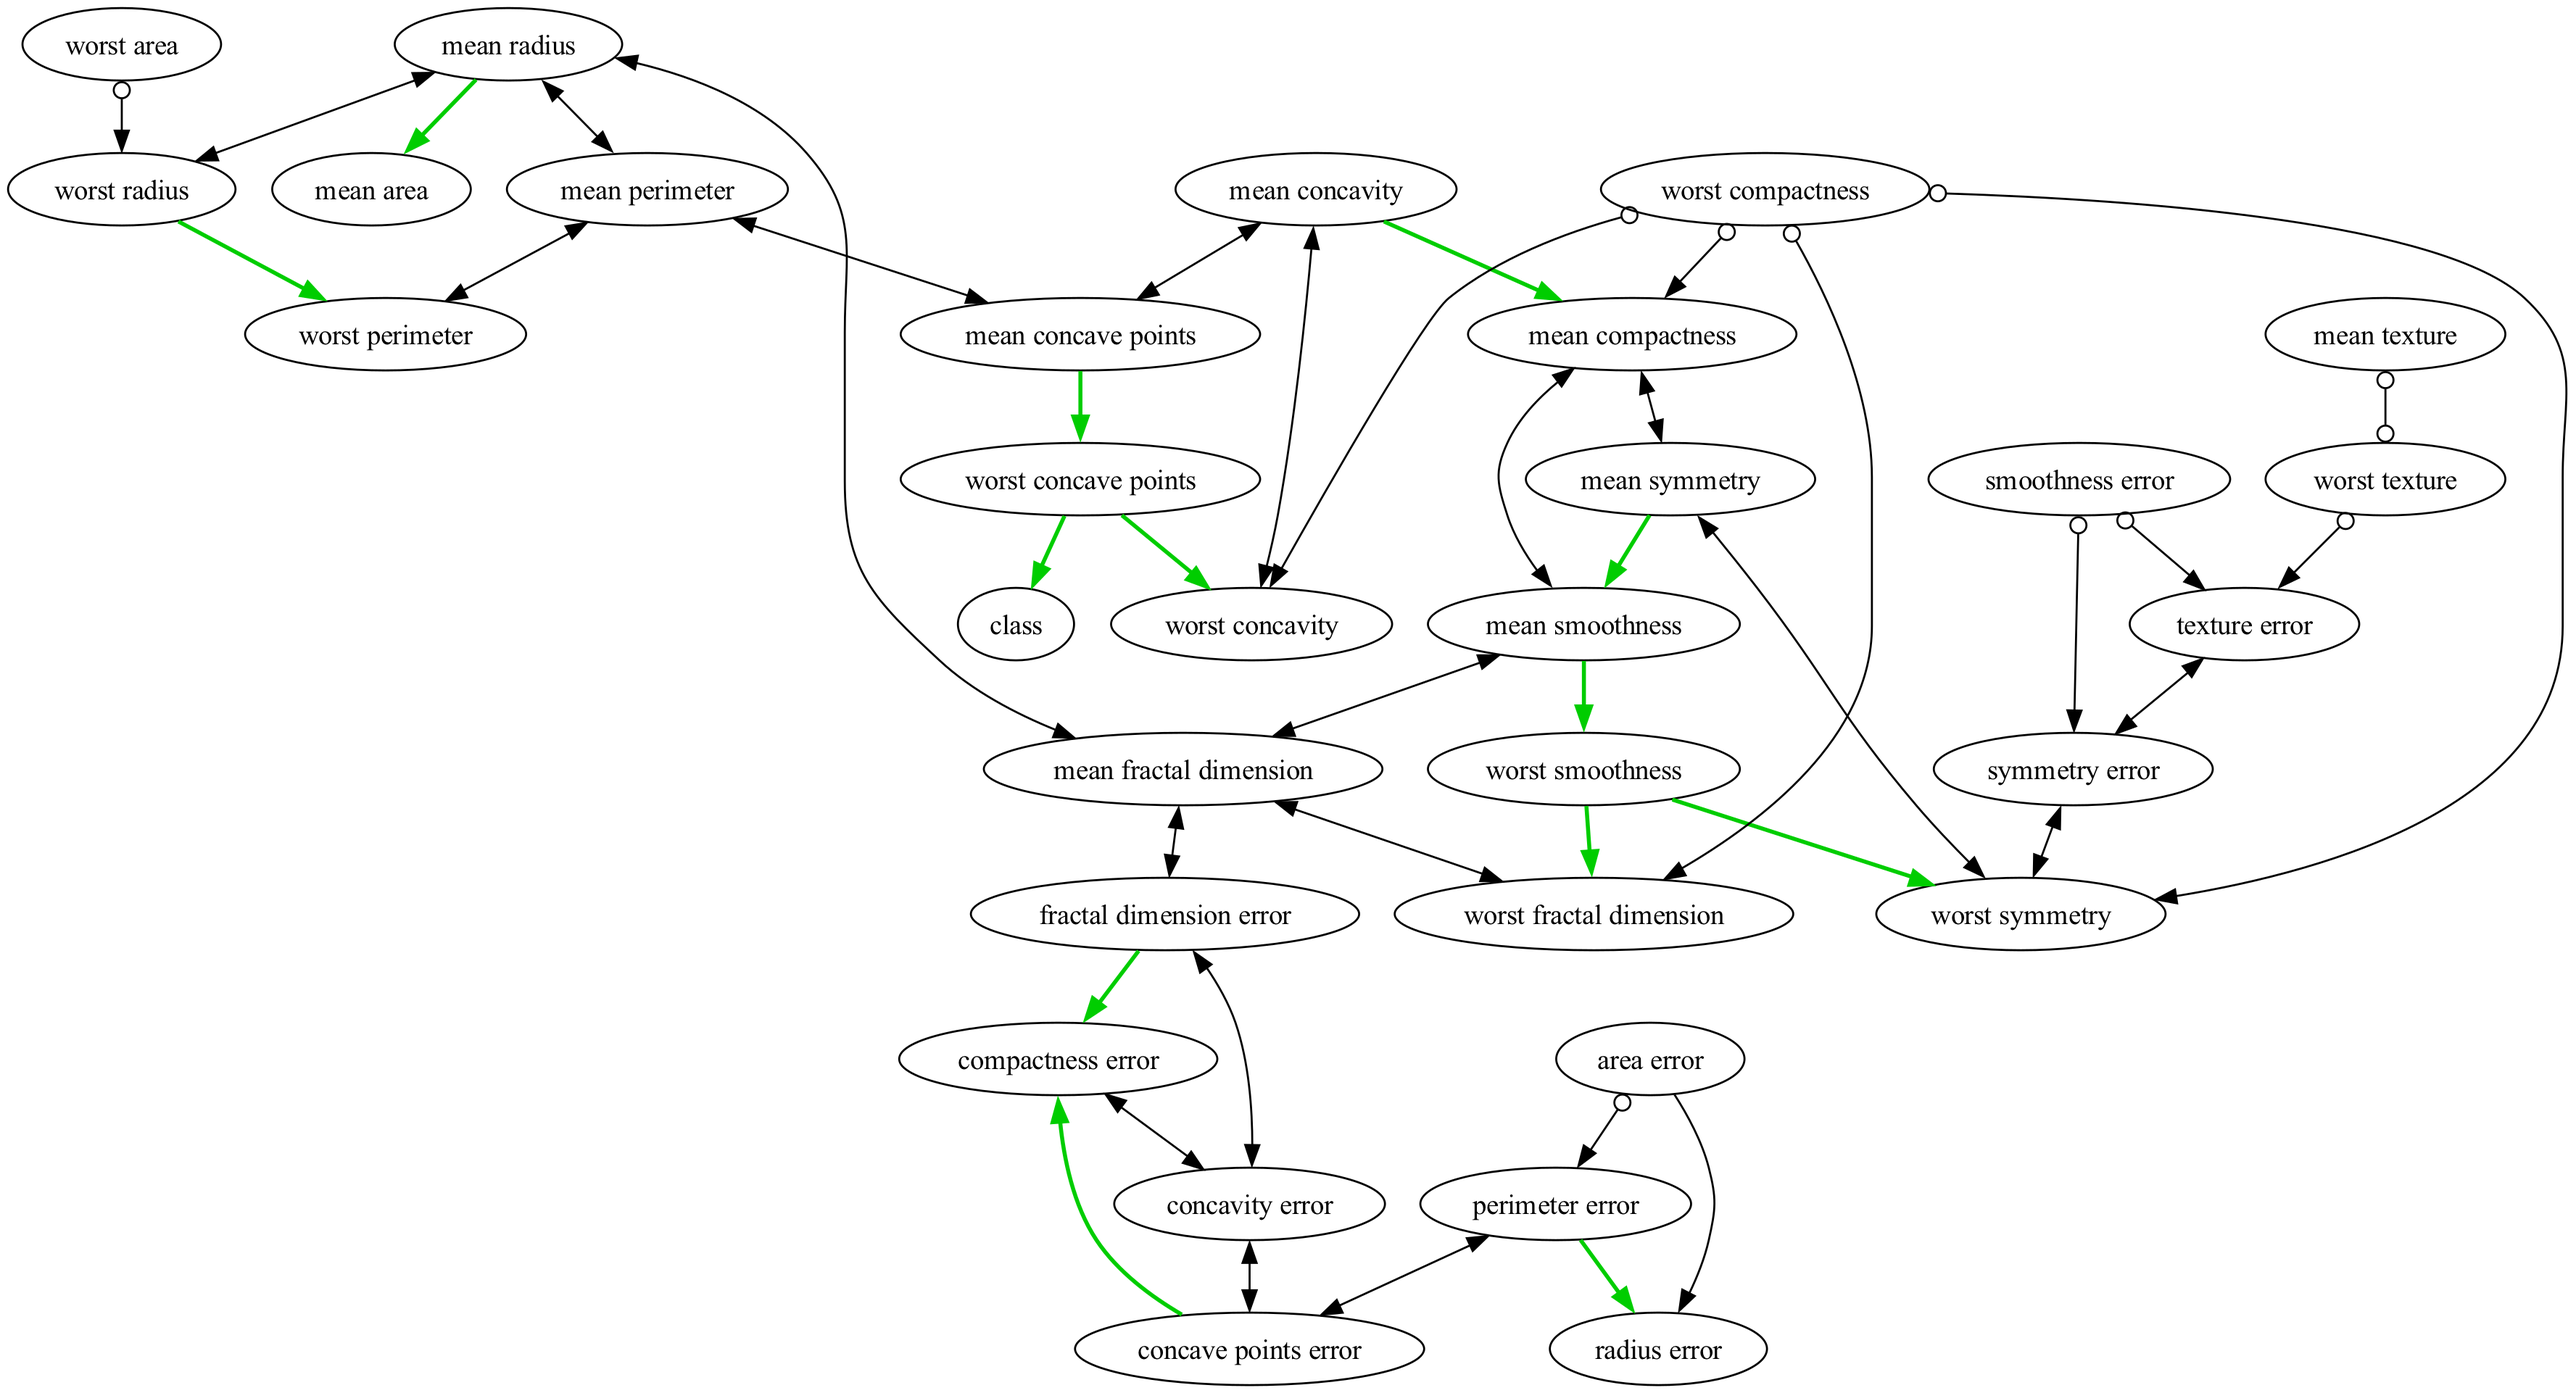
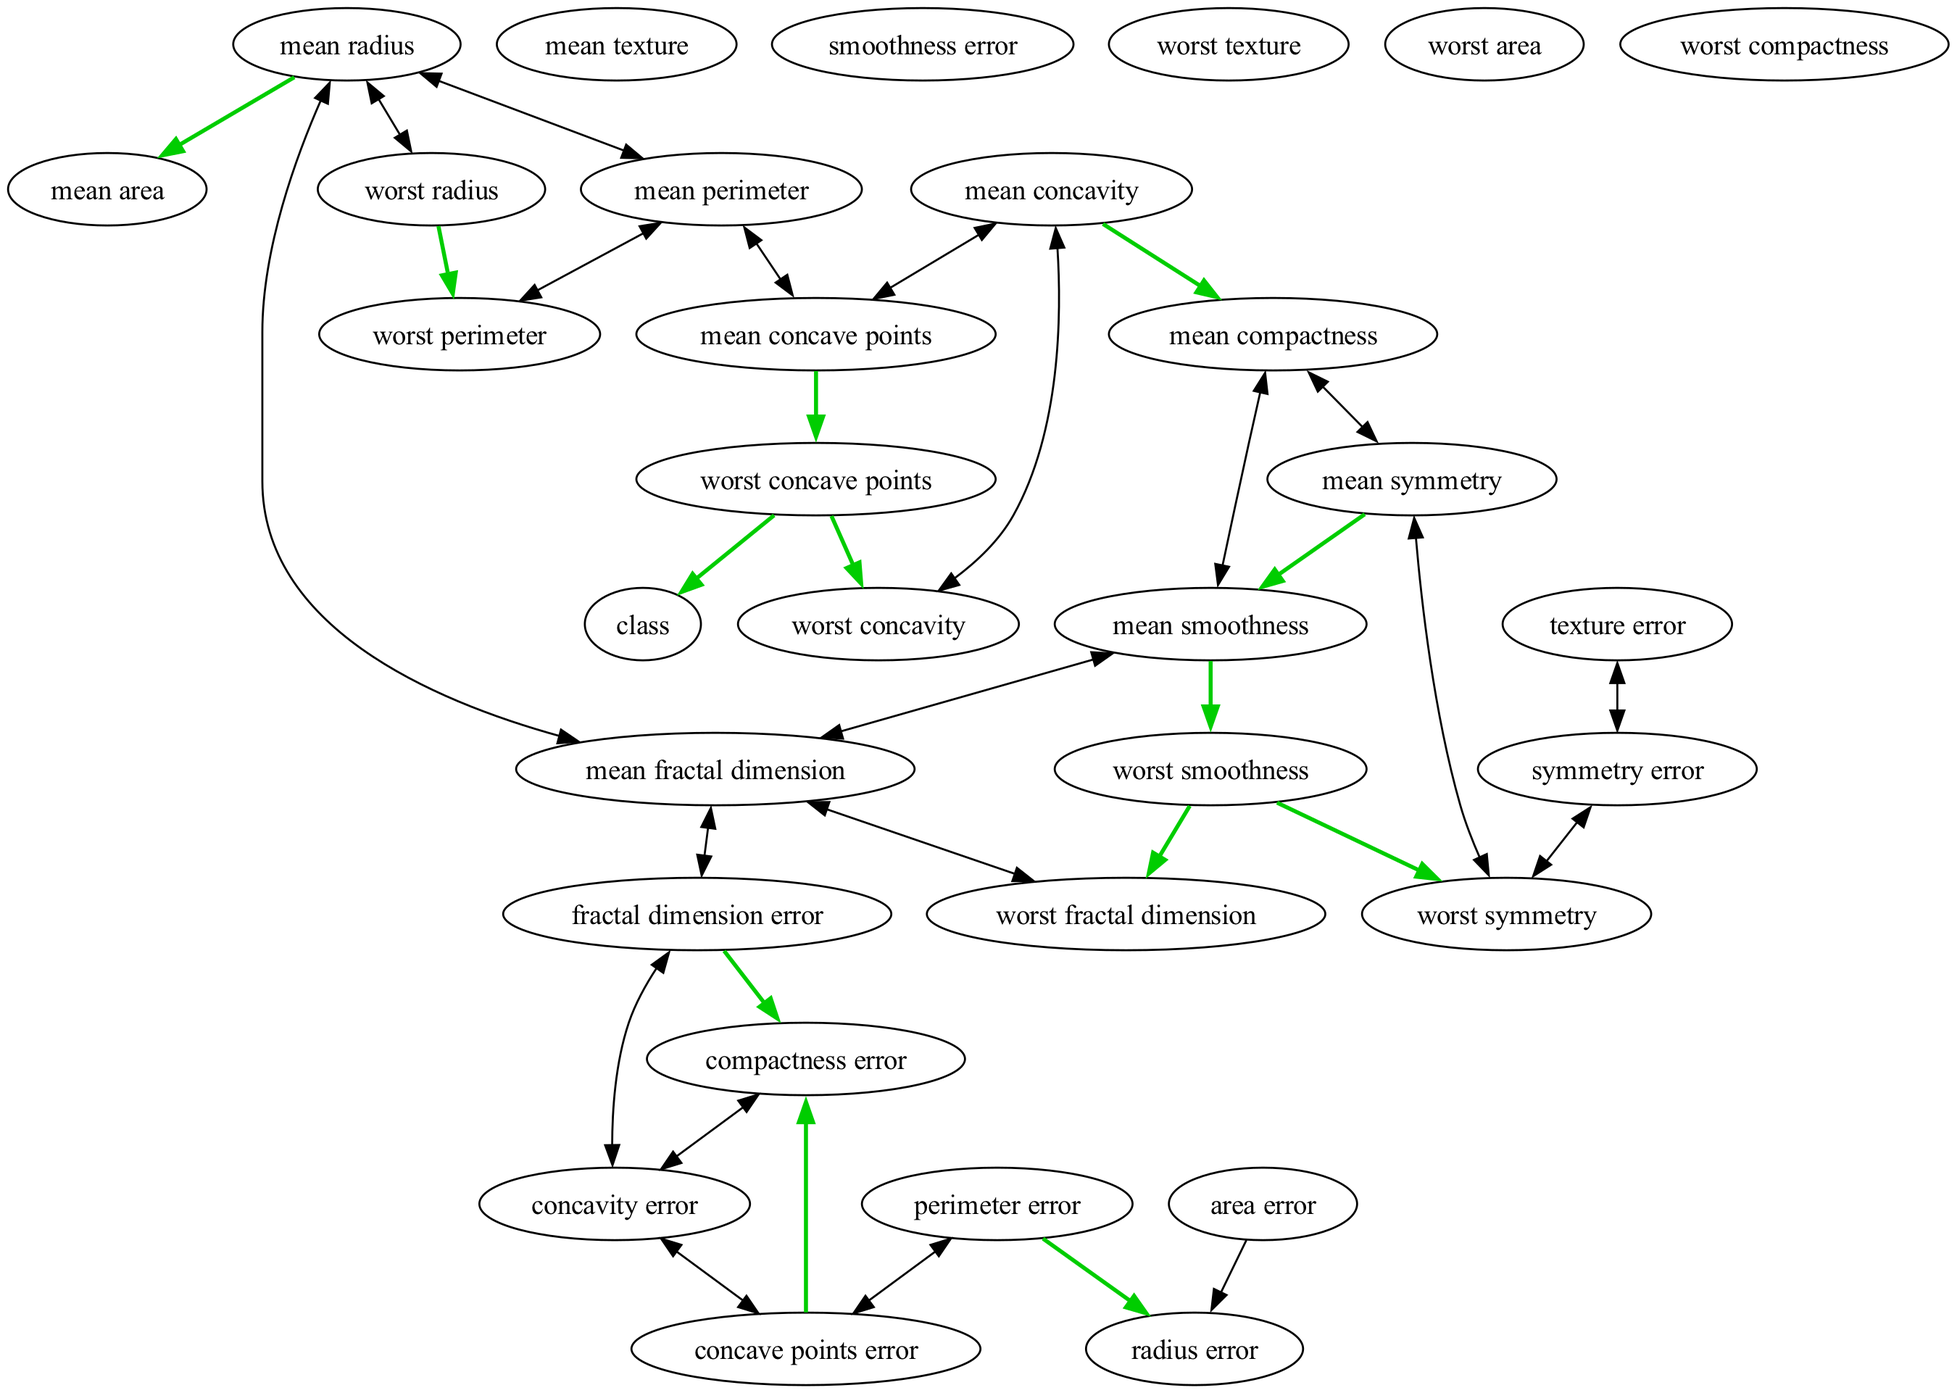
updates on graphs creation

diff --git a/src/main.py b/src/main.py
@@ -9,7 +9,8 @@ features = load_breast_cancer().feature_names
 dataset_title = load_breast_cancer().filename.replace(".csv", "").replace(".gz", "")
 
 class_used = True # Set True if class is used as feature, False otherwise
-no_d_sep = False # Set True to remove no d-separation edges, False otherwise
+no_d_sep = True # Set True to remove no d-separation edges, False otherwise
+remove_common_causes = False
 independence_test = "fisherz" # Set "fisherz" or "chi2"
 
 class_used_str = ""
@@ -34,6 +35,22 @@ if no_d_sep:
             edges.remove(edge)
     no_d_sep = True
     no_d_sep_str = "_no_d_separation"
+
+# Remove edges were one node is not an ancestor of the other
+for edge in edges:
+    if str(edge.get_endpoint1()) == "CIRCLE" or str(edge.get_endpoint2()) == "CIRCLE":
+        edges.remove(edge)
+
+for edge in edges:
+    if str(edge.get_endpoint1()) == "CIRCLE":
+        edges.remove(edge)
+
+# Remove edges were latent common cause exists 
+# (we need to do this step 4 times to remove all common causes for some reason)
+if remove_common_causes:
+    for edge in edges:
+        if str(edge.get_endpoint1()) == "ARROW" and str(edge.get_endpoint2()) == "ARROW":
+            edges.remove(edge)
 
 for node in nodes:
     node.set_name(features[int(node.get_name().replace("X", "")) - 1])
